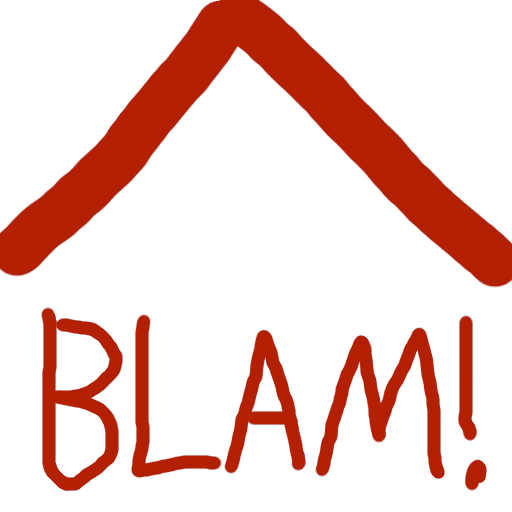
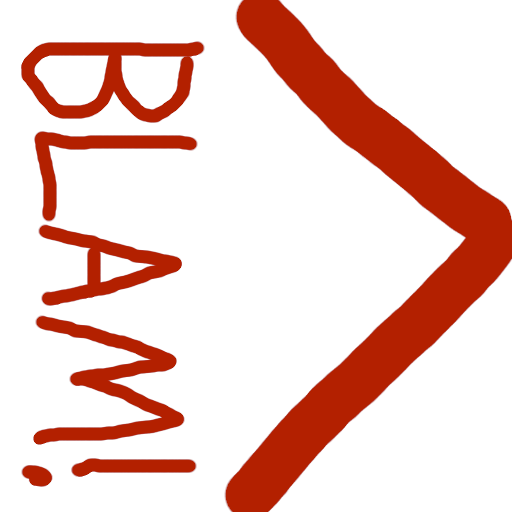
Entities can rotate

Changed region(s): [[0.0, 0.0, 1.0, 1.0], [0.5, 0.0, 1.0, 0.4688]]

diff --git a/GameController.cc b/GameController.cc
@@ -188,15 +188,15 @@ void GameController::tickPlayer(Player* player)
         player->state.pos.x += player->moveSpeed;
     }
 
+    point_t mouseWorldPos = m_graphics.getMousePos();
     if(sf::Mouse::isButtonPressed(sf::Mouse::Left) && player->state.cooldown == 0)
     {
-        point_t mouseWorldPos = m_graphics.getMousePos();
         point_t direction = math_util::normalize(mouseWorldPos - player->state.pos);
         point_t bulletPos = player->state.pos + direction * player->size.x;
         std::shared_ptr<Bullet> bullet(new Bullet(nextID()));
         bullet->state.pos = bulletPos;
         bullet->velocity = direction * Bullet::SPEED;
-
+        bullet->state.angle_deg = math_util::angleBetween(player->state.pos, mouseWorldPos);
         bullet->originTimeline = m_currentTimeline;
         bullet->backwards = player->backwards;
         bullet->hasEnding = true;
@@ -218,6 +218,8 @@ void GameController::tickPlayer(Player* player)
         m_historyBuffers.back().buffer[bullet->id] = std::vector<ObjectState>(m_currentTick+1);
         m_historyBuffers.back().buffer[bullet->id][m_currentTick] = bullet->state;
     }
+
+    player->state.angle_deg = math_util::rotateTowardsPoint(player->state.angle_deg, player->state.pos, mouseWorldPos, 5.0f);
 }
 
 void GameController::tickBullet(Bullet* bullet)
@@ -243,6 +245,8 @@ void GameController::tickEnemy(Enemy* enemy)
         patrolOffset = enemy->patrolPoints[enemy->state.patrolIdx] - enemy->state.pos;
     }
     enemy->state.pos += math_util::normalize(patrolOffset) * enemy->moveSpeed;
+
+    enemy->state.angle_deg = math_util::rotateTowardsPoint(enemy->state.angle_deg, enemy->state.pos, enemy->patrolPoints[enemy->state.patrolIdx], 5.0f);
 }
 
 void GameController::playTick()

diff --git a/Graphics.cc b/Graphics.cc
@@ -82,6 +82,7 @@ void Graphics::draw(const Level & level, std::map<int, std::shared_ptr<GameObjec
 
         point_t cameraPos = worldToCamera(obj->state.pos);
         obj->sprite.setPosition(sf::Vector2f(cameraPos));
+        obj->sprite.setRotation(obj->state.angle_deg * -1.0f);
         m_window.draw(obj->sprite);
     }
 
